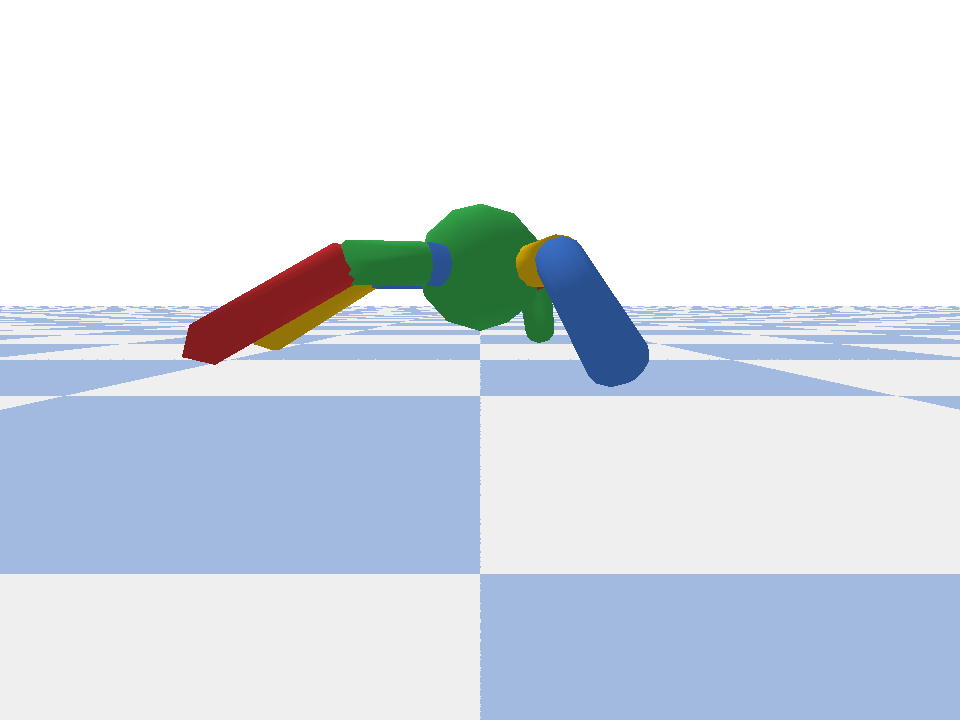
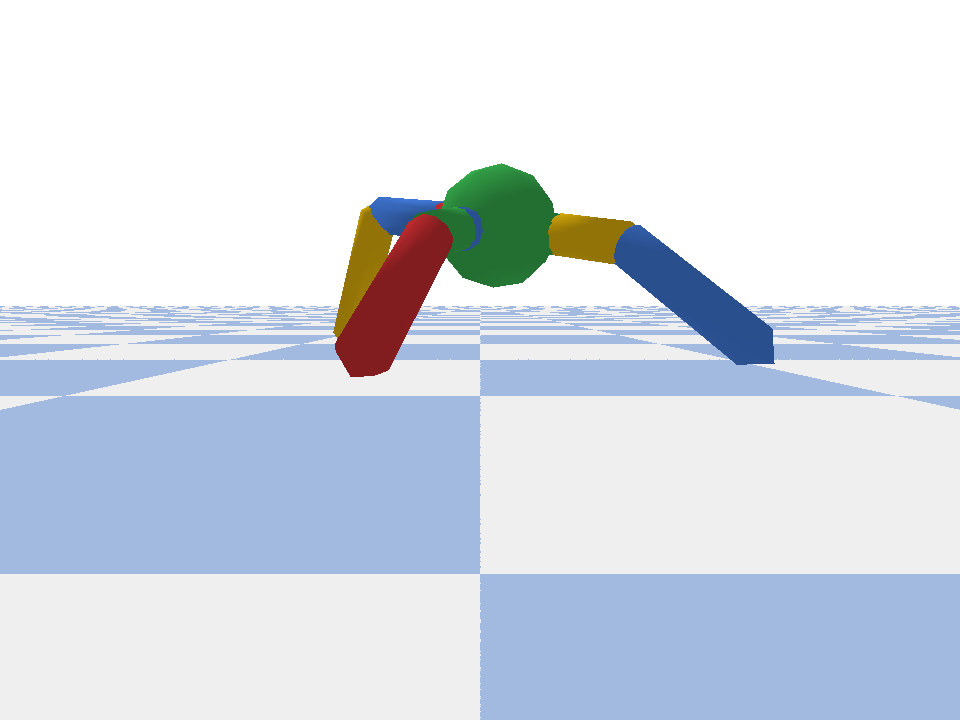
fixed seed utilization

Changed region(s): [[0.1875, 0.2139, 0.8125, 0.55]]

diff --git a/visualize_state.py b/visualize_state.py
@@ -50,7 +50,7 @@ def get_image(mdp, scaling, distance, pitch):
     return rgb_array
 
 
-def set_state(robot, robot_body):
+def set_state(robot, robot_body, cluster):
     z = cluster[0]
     v = cluster[3:6] / 0.3
     r = cluster[6]
@@ -94,6 +94,7 @@ if __name__ == '__main__':
     # env_id = 'HopperBulletEnv-v0'
     # postfix = 'c10hcovr_expdTruet1.0snone'
     # run_id = 12
+
     env_id = 'HalfCheetahBulletEnv-v0'
     postfix = 'c20hcovr_expdTruet0.33snone'
     run_id = 4
@@ -130,21 +131,38 @@ if __name__ == '__main__':
         os.makedirs(save_dir, exist_ok=True)
         pygame.image.save(viewer._screen, full_path)
 
-    wait()
-
-    for n, cluster in enumerate(policy_torch.centers.detach().numpy()):
+    # wait()
+    cluster_idxs = [1, 2, 3, 4, 5, 6]
+    # cluster_idxs = [2, 8]
+    # cluster_idxs = [8]
+    # cluster_idxs = [3]
+    # for n, cluster in enumerate(policy_torch.centers.detach().numpy()):
+    for n in cluster_idxs:
         # get Robot object from environment
-        env.reset()
+        cluster = policy_torch.centers[n].detach().numpy()
+        obs = env.reset()
         robot = env.env.robot
         robot_body = robot.robot_body
 
         print('- Displaying cluster ', n)
         print(cluster)
 
-        set_state(robot, robot_body)
+        set_state(robot, robot_body, cluster)
 
-        px = get_image(env, scaling, distance, pitch)
-        viewer.display(px)
+        # px = get_image(env, scaling, distance, pitch)
+        # viewer.display(px)
+
+        for iterdisp in range(15):
+            px = get_image(env, scaling, distance, pitch)
+            viewer.display(px)
+            # env.step(policy_torch.means[0].detach().numpy())
+            w = policy_torch.get_membership(torch.tensor([obs])).detach().numpy().squeeze()
+            print(w[2], w[8])
+            # if w[n] > .2 or iterdisp < 1:
+            obs, _, _, _ = env.step(policy_torch.get_mean(torch.tensor(obs)).detach().numpy().squeeze())
+            # else:
+            #     break
+
 
         if save:
             full_path = os.path.join(save_dir, 'cluster-' + str(n) + '.png')
@@ -157,4 +175,4 @@ if __name__ == '__main__':
         if wrong_state:
             print(cluster - robot.calc_state())
 
-        wait()
+        # wait()

diff --git a/plot_cluster_activation.py b/plot_cluster_activation.py
@@ -189,13 +189,14 @@ if __name__ == '__main__':
     horizon = 1000
     gamma = .99
 
-    # env_id = 'AntBulletEnv-v0'
-    # log_name = 'Results/final_medium/AntBulletEnv-v0/metricrl_c10hcovr_expdTruet0.33snone'
+    env_id = 'AntBulletEnv-v0'
+    log_name = 'Results/final_medium/AntBulletEnv-v0/metricrl_c10hcovr_expdTruet0.33snone'
     # idxs = [0, 2, 3, 6]
-    # plot_default = False
-    # seed = 0
-    # ratios = [3.5, 1]
-    # n_clusters = 10
+    idxs = [2, 4, 5, 6]
+    plot_default = False
+    seed = 0
+    ratios = [3.5, 1]
+    n_clusters = 10
 
     # env_id = 'HopperBulletEnv-v0'
     # log_name = 'Results/final_medium/HopperBulletEnv-v0/metricrl_c10hcovr_expdTruet1.0snone'
@@ -205,13 +206,13 @@ if __name__ == '__main__':
     # ratios = [3.5, 1]
     # n_clusters = 10
 
-    env_id = 'HalfCheetahBulletEnv-v0'
-    log_name = 'Results/final_medium/HalfCheetahBulletEnv-v0/metricrl_c20hcovr_expdTruet0.33snone'
-    idxs = [13, 7, 4, 17]
-    plot_default = False
-    seed = 4
-    ratios = [2, 1]
-    n_clusters = 20
+    # env_id = 'HalfCheetahBulletEnv-v0'
+    # log_name = 'Results/final_medium/HalfCheetahBulletEnv-v0/metricrl_c20hcovr_expdTruet0.33snone'
+    # idxs = [13, 7, 4, 17]
+    # plot_default = False
+    # seed = 4
+    # ratios = [2, 1]
+    # n_clusters = 20
 
     max_time_all = 350
     max_time_selected = 350
@@ -222,9 +223,9 @@ if __name__ == '__main__':
     filename_all = os.path.join(save_path, env_id + '_all.png')
     filename_selected = os.path.join(save_path, env_id + '.png')
 
-    policy = load_policy(log_name, iteration=1001, seed=12)
+    policy = load_policy(log_name, iteration=1001, seed=seed)
 
-    w = get_cluster_activation(env_id, horizon, gamma, policy, dt, n_episodes=1, seed=12)
+    w = get_cluster_activation(env_id, horizon, gamma, policy, dt, n_episodes=1, seed=seed)
 
     imgs = load_cluster_images(env_id, n_clusters)
 

diff --git a/run_gym.py b/run_gym.py
@@ -153,12 +153,12 @@ if __name__ == '__main__':
     # horizon = 1600
     # env_id = 'HopperBulletEnv-v0'
     # env_id = 'HalfCheetahBulletEnv-v0'
-    # env_id = 'AntBulletEnv-v0'
+    env_id = 'AntBulletEnv-v0'
     # env_id = 'HumanoidBulletEnv-v0'
     # env_id = 'MountainCarContinuous-v0'
     # env_id = 'InvertedPendulumSwingupBulletEnv-v0'
     # env_id = 'InvertedPendulumBulletEnv-v0'
-    env_id = 'Pendulum-v0'
+    # env_id = 'Pendulum-v0'
     # env_id = 'InvertedDoublePendulumBulletEnv-v0'
     # env_id = 'BipedalWalker-v2'
     horizon = 1000

diff --git a/replay.py b/replay.py
@@ -96,7 +96,7 @@ if __name__ == '__main__':
     log_name = 'Results/final_medium/HalfCheetahBulletEnv-v0/metricrl_c10hcovr_expdTruet0.33snone'
     seed = 4
 
-    policy = load_policy(log_name, iteration=1001, seed=12)
+    policy = load_policy(log_name, iteration=1001, seed=seed)
 
-    replay(env_id, horizon, gamma, policy, dt=dt, n_episodes=10, seed=12)
+    replay(env_id, horizon, gamma, policy, dt=dt, n_episodes=10, seed=seed)
 
